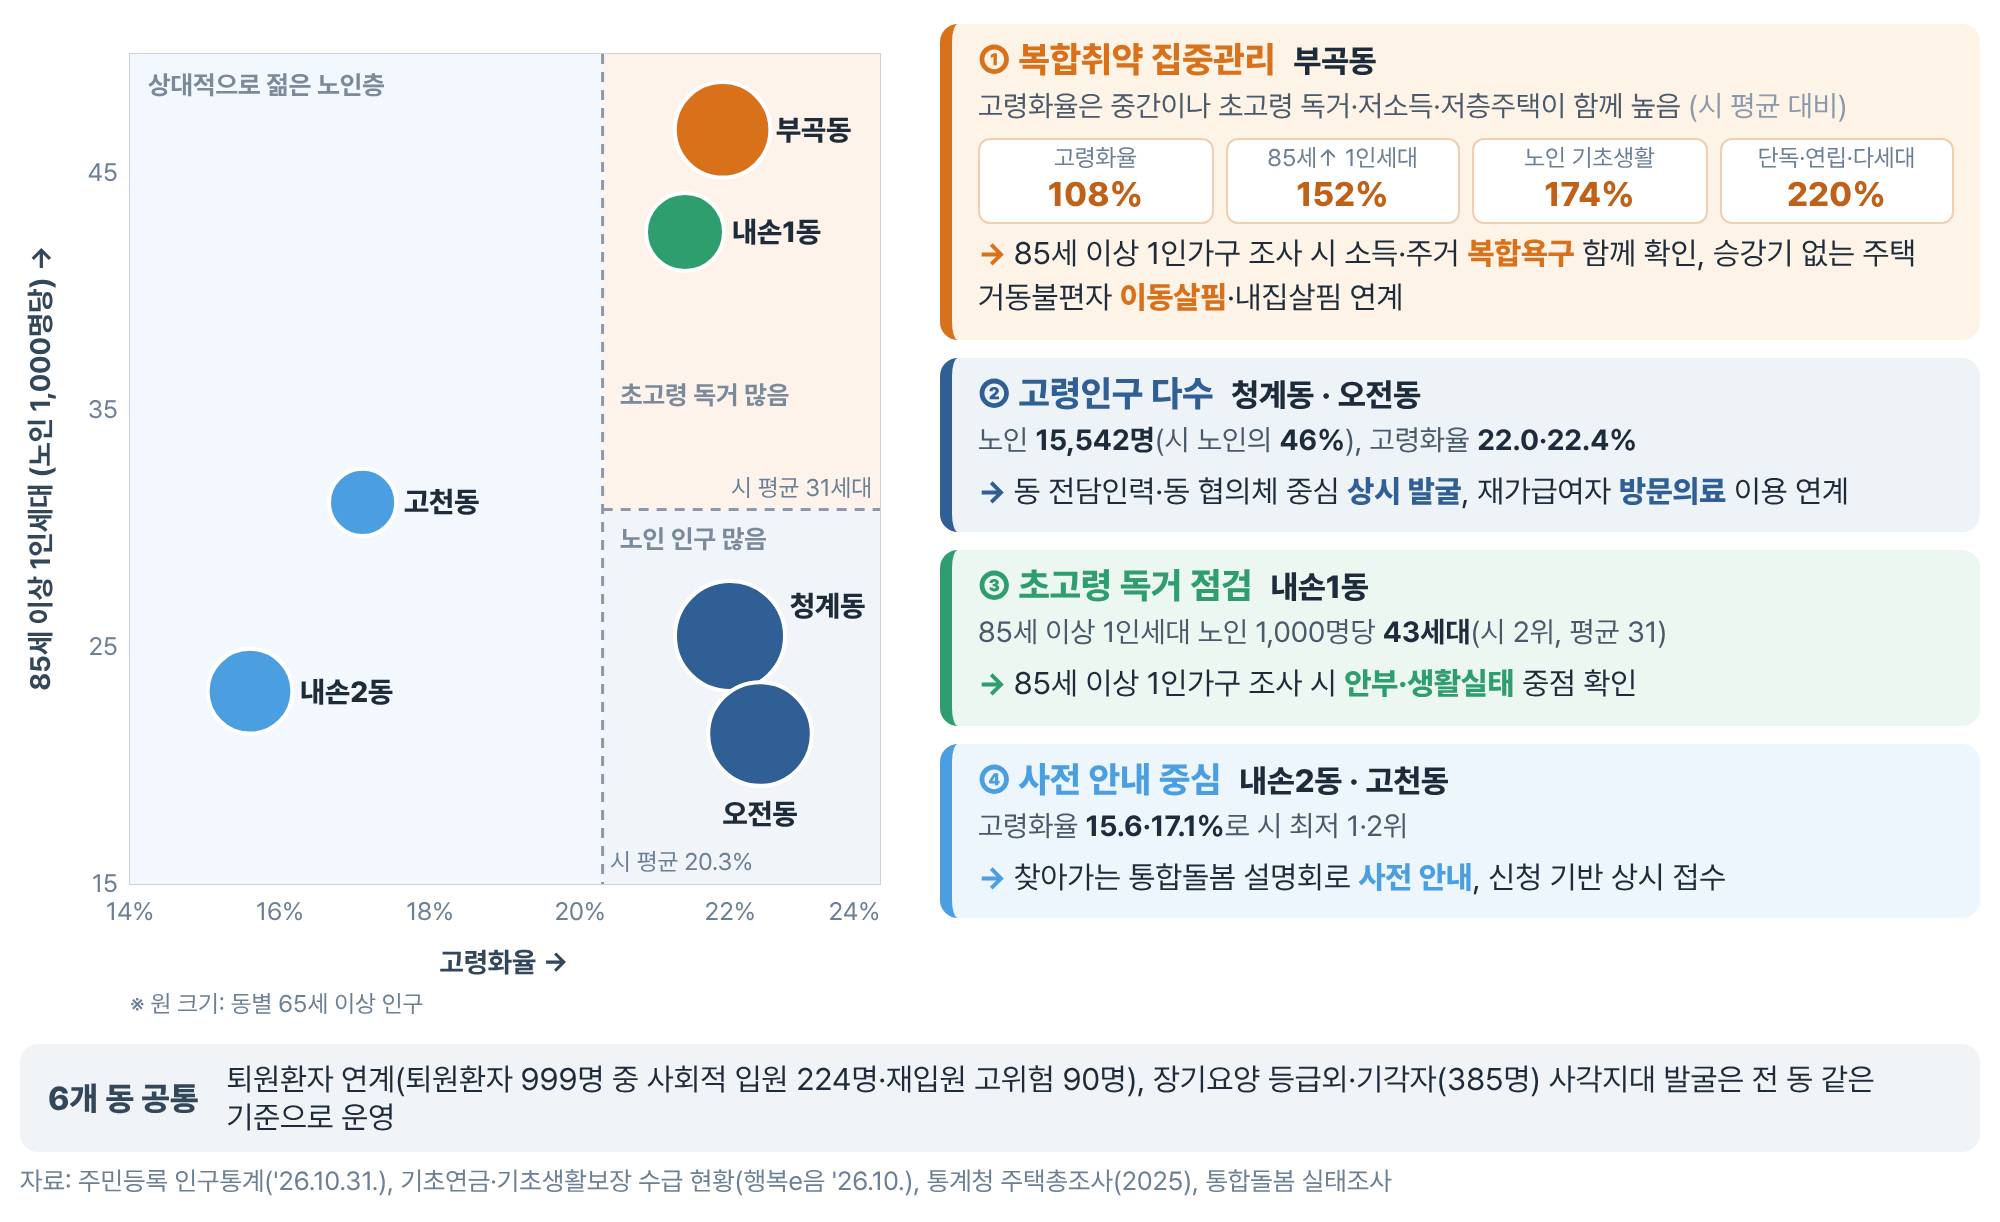
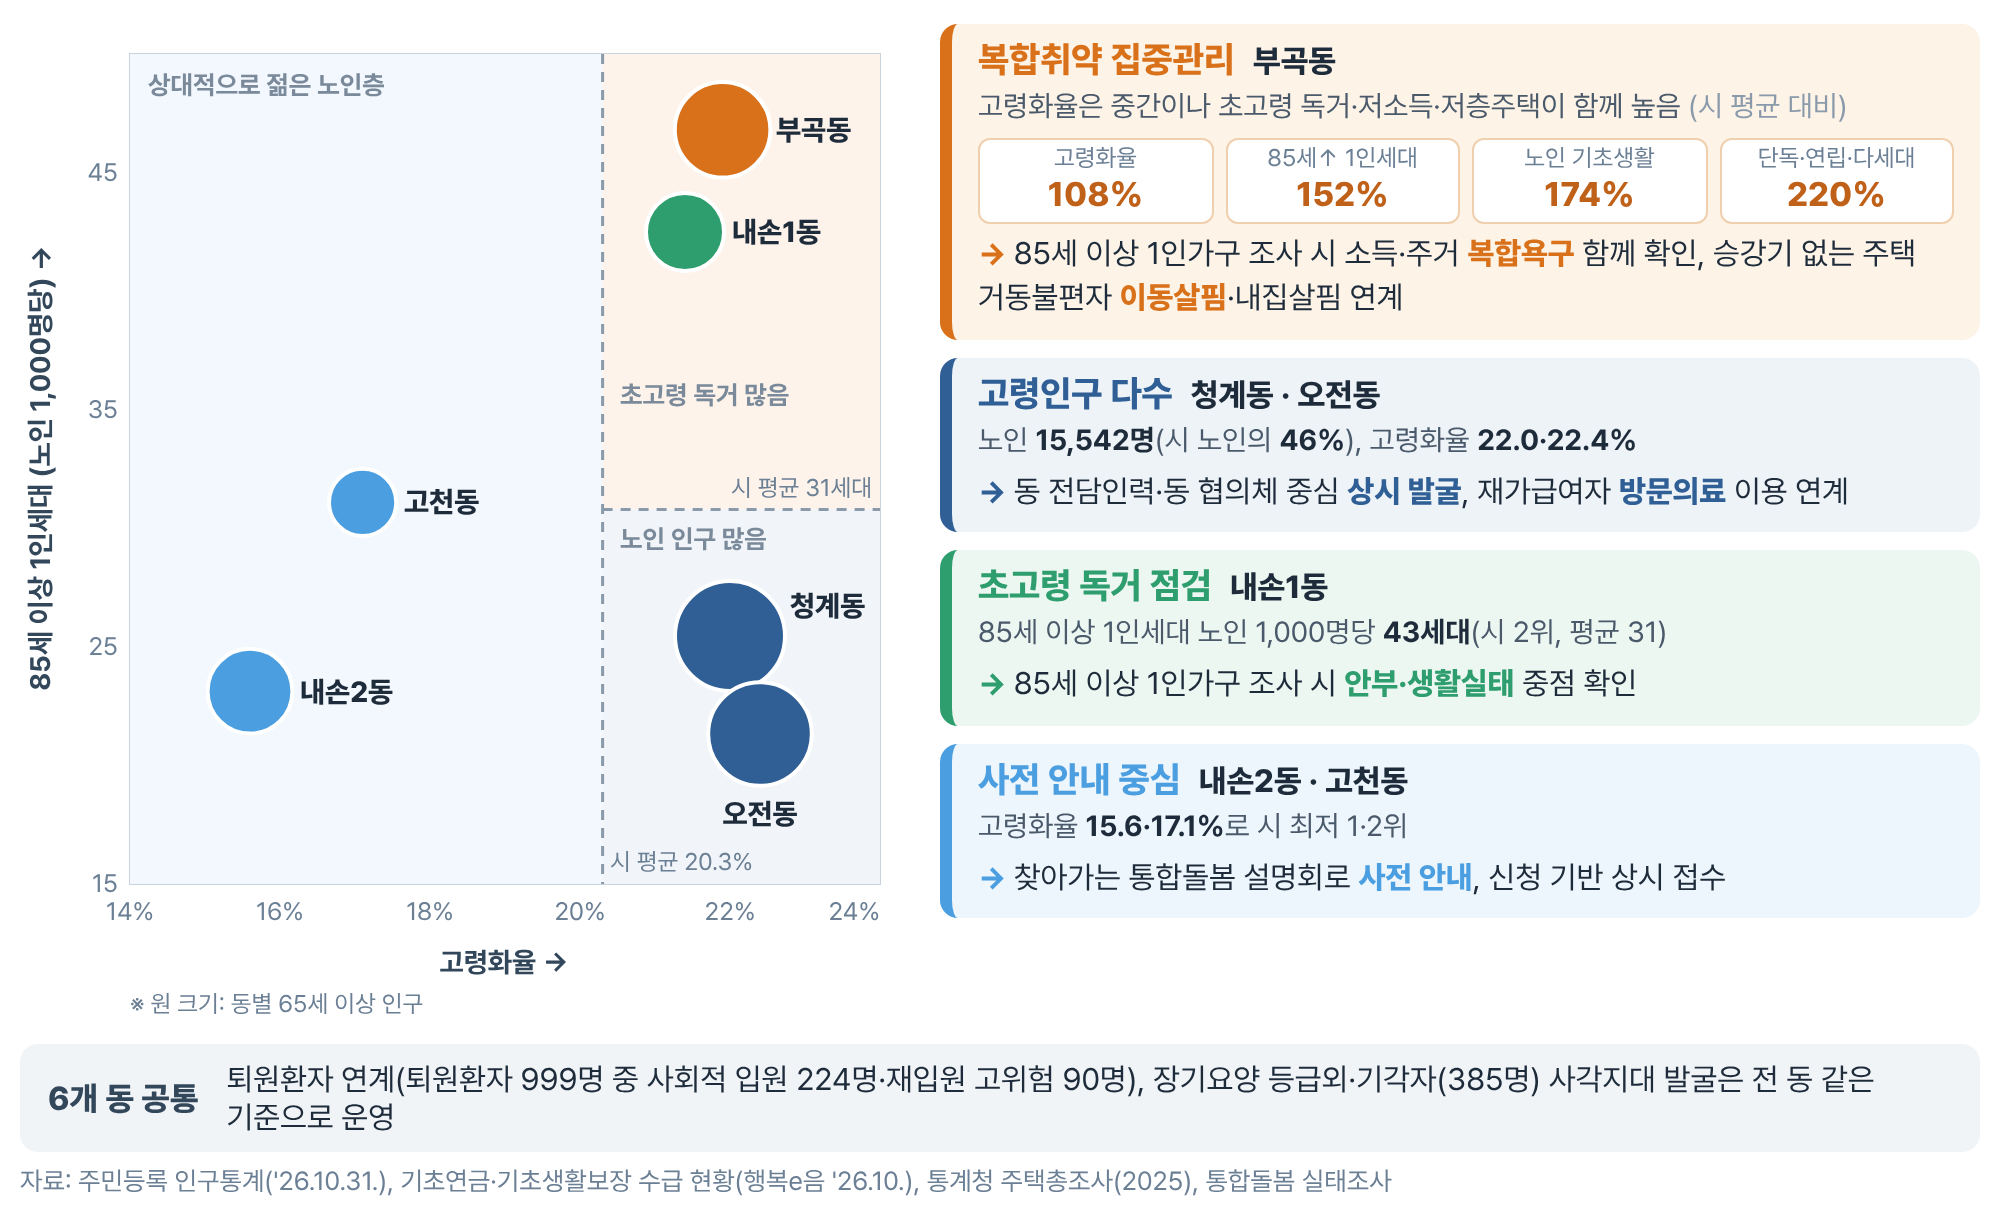
동별 유형 그림: 우선순위로 읽히지 않도록 유형 번호 제거
Claude-Session: https://claude.ai/code/session_01Rws36rz6FMs9qvhqTvH8uK

diff --git a/docs/uiwang-2027-plan/figures/src/dong_type.html b/docs/uiwang-2027-plan/figures/src/dong_type.html
@@ -68,23 +68,23 @@ svg text{font-family:'Pretendard',sans-serif}
 
 <div class="cards">
   <div class="card" style="--c:#d9711a;--bg:#fdf3e7">
-    <div class="ch"><b>① 복합취약 집중관리</b><span>부곡동</span></div>
+    <div class="ch"><b>복합취약 집중관리</b><span>부곡동</span></div>
     <div class="ev">고령화율은 중간이나 초고령 독거·저소득·저층주택이 함께 높음 <span style="color:#8a9aab">(시 평균 대비)</span></div>
     <div class="ratio"><div><small>고령화율</small><b>108%</b></div><div><small>85세↑ 1인세대</small><b>152%</b></div><div><small>노인 기초생활</small><b>174%</b></div><div><small>단독·연립·다세대</small><b>220%</b></div></div>
     <div class="dir">85세 이상 1인가구 조사 시 소득·주거 <i>복합욕구</i> 함께 확인, 승강기 없는 주택 거동불편자 <i>이동살핌</i>·내집살핌 연계</div>
   </div>
   <div class="card" style="--c:#2f5f95;--bg:#eef3f8">
-    <div class="ch"><b>② 고령인구 다수</b><span>청계동 · 오전동</span></div>
+    <div class="ch"><b>고령인구 다수</b><span>청계동 · 오전동</span></div>
     <div class="ev">노인 <em>15,542명</em>(시 노인의 <em>46%</em>), 고령화율 <em>22.0·22.4%</em></div>
     <div class="dir">동 전담인력·동 협의체 중심 <i>상시 발굴</i>, 재가급여자 <i>방문의료</i> 이용 연계</div>
   </div>
   <div class="card" style="--c:#2e9e6e;--bg:#edf7f2">
-    <div class="ch"><b>③ 초고령 독거 점검</b><span>내손1동</span></div>
+    <div class="ch"><b>초고령 독거 점검</b><span>내손1동</span></div>
     <div class="ev">85세 이상 1인세대 노인 1,000명당 <em>43세대</em>(시 2위, 평균 31)</div>
     <div class="dir">85세 이상 1인가구 조사 시 <i>안부·생활실태</i> 중점 확인</div>
   </div>
   <div class="card" style="--c:#4b9fe0;--bg:#eef6fd">
-    <div class="ch"><b>④ 사전 안내 중심</b><span>내손2동 · 고천동</span></div>
+    <div class="ch"><b>사전 안내 중심</b><span>내손2동 · 고천동</span></div>
     <div class="ev">고령화율 <em>15.6·17.1%</em>로 시 최저 1·2위</div>
     <div class="dir">찾아가는 통합돌봄 설명회로 <i>사전 안내</i>, 신청 기반 상시 접수</div>
   </div>
